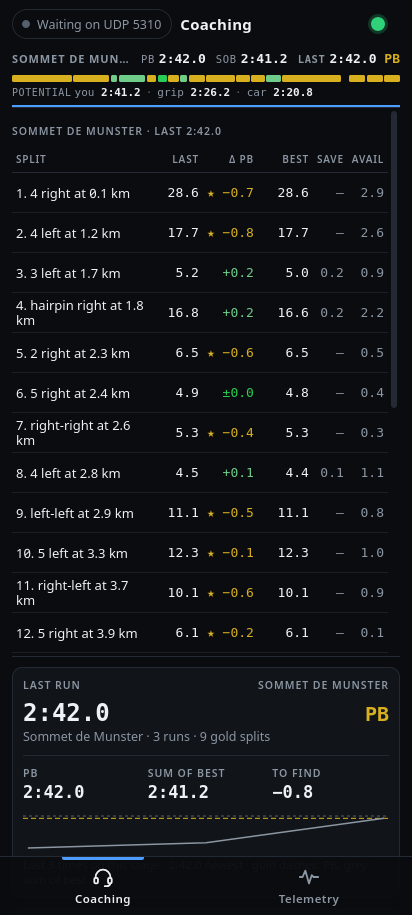
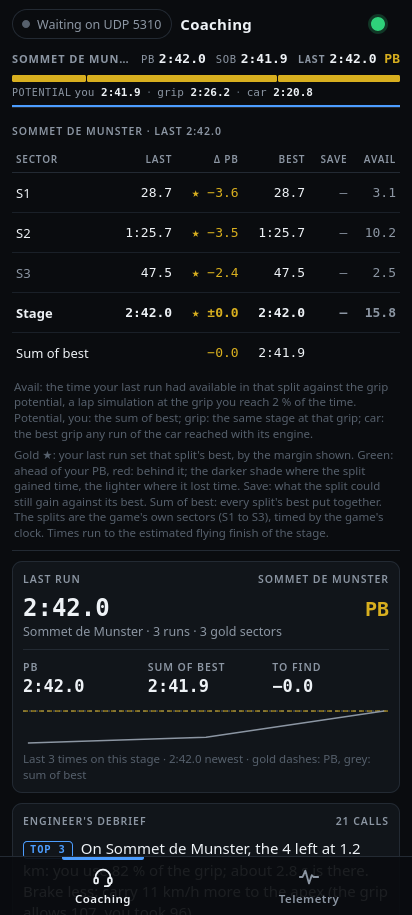
README images recaptured from this code (sectors, next-best and PB labels, m:ss.s times); live ribbon colours S1; splits legend wraps

diff --git a/data/telemetry/web/index.html b/data/telemetry/web/index.html
@@ -1249,7 +1249,8 @@ function liveRibbon(b) {
   let cur = null;
   sp.splits.forEach((r, j) => { if (!fin && d != null && r.d0 != null && r.d1 != null && d >= r.d0 && d < r.d1) cur = j; });
   sp.splits.forEach((r, j) => {
-    const g = ref && r.d0 != null ? rs.findIndex((x) => Math.abs(x.d0 - r.d0) < 2) : -1;
+    let g = -1, gap = 15;                     // the reference's split whose start is within 15 m (S1's line is a couple of m on)
+    if (ref && r.d0 != null) rs.forEach((x, k) => { const e = Math.abs(x.d0 - r.d0); if (e < gap) { gap = e; g = k; } });
     cells[j].className = j === cur ? "cur" : lr.tones[g] ? "ls-" + lr.tones[g] : "";
   });
   return cur == null ? -1 : cur;

diff --git a/oversteer/telemetry_view.py b/oversteer/telemetry_view.py
@@ -642,6 +642,10 @@ def live_cursor(body, bounds):
     return found
 
 
+SPLIT_MATCH = 15.0               # m: a row's split is the reference's whose start is this close (the sectors' lines
+                                 # are placed from where the reference began, a few metres from the row's 0)
+
+
 def live_ribbon(body, track, bounds):
     """(tones per cell, current cell) for the splits ribbon while a run is on, or None: completed splits in the tone
     they were completed in, the rest unlit."""
@@ -652,10 +656,9 @@ def live_ribbon(body, track, bounds):
     for b in bounds:
         g = -1
         if ref and b and b[0] is not None:
-            for i, s in enumerate(ref['splits']):
-                if abs(s['d0'] - b[0]) < 2.0:
-                    g = i
-                    break
+            near = min(range(len(ref['splits'])), key=lambda i: abs(ref['splits'][i]['d0'] - b[0]), default=None)
+            if near is not None and abs(ref['splits'][near]['d0'] - b[0]) < SPLIT_MATCH:     # S1 starts a couple of m on
+                g = near
         tones.append(track.tones.get(g, 'none'))
     return tones, live_cursor(body, bounds)
 

diff --git a/tests/test_live_view.py b/tests/test_live_view.py
@@ -166,3 +166,13 @@ def test_the_live_reference_is_named_by_what_it_is():
     assert view.ref_name({'pb': False, 'n': 4}) == 'Run 4' and view.ref_name({'pb': False, 'n': None}) == 'best run'
     buffer, end = buffer_with_run(until=750.0)
     assert view.live_delta_view(buffer.read(0, now=end), [(0.0, 500.0), (500.0, 2000.0)])['ref_name'] == 'PB'
+
+
+def test_the_ribbons_first_sector_matches_the_reference_whose_line_is_a_few_metres_on():
+    """The sectors' lines are placed from where the reference began: S1 starts 2 m on in the reference, at 0 in the row."""
+    import types
+    track = types.SimpleNamespace(tones={0: 'behind-lose', 1: 'ahead-gain'})
+    body = {'state': 'live', 'distance': 1500.0,
+            'ref': {'splits': [{'name': 'S1', 'd0': 2.06, 'd1': 1022.7}, {'name': 'S2', 'd0': 1022.7, 'd1': 3642.9}]}}
+    tones, current = view.live_ribbon(body, track, [(0.0, 1020.0), (1020.0, 3640.0), (3640.0, 5330.0)])
+    assert tones == ['behind-lose', 'ahead-gain', 'none'] and current == 1

diff --git a/oversteer/gtk_ui.py b/oversteer/gtk_ui.py
@@ -1688,6 +1688,7 @@ class GtkUi:
             text += ' ' + _("The finish split includes the slow-down to the stop.")
         note = Gtk.Label(label=text, xalign=0)
         note.set_line_wrap(True)
+        note.set_max_width_chars(100)               # wraps in a window as wide as the page instead of running off its edge
         note.get_style_context().add_class('dim-label')
         self.splits_body.pack_start(note, False, False, 0)
         self.splits_body.show_all()

diff --git a/README.md b/README.md
@@ -50,23 +50,23 @@ What you get, all from the game's telemetry (no overlay, nothing injected into t
   it can be limited to this computer.
 
 <p align="center">
-  <img src="docs/images/splits-mobile.png" width="300" alt="The web page on a phone with the splits table open (real output)">
+  <img src="docs/images/splits-mobile.png" width="300" alt="The web page on a phone with the sector table open: S1, S2, S3 against the PB, the sum of best and the potential lap (real output)">
   &nbsp;&nbsp;
   <img src="docs/images/telemetry-web.png" width="560" alt="The web page on a laptop: the splits ribbon with the potential lap, the last run, the splits and the coaching (real output)">
 </p>
-<p align="center"><sub>The phone/laptop page on the author's own runs: the splits sheet and the coaching.</sub></p>
+<p align="center"><sub>The phone/laptop page on the author's own runs: the game's three sectors (S1 to S3) with the potential lap, and the coaching.</sub></p>
 
 The Telemetry > Run view lines the run up against your best: speed, pedals, steering, gear and
 revs as strips over the stage, a stage map drawn from the game's positions, and where the time went
 with the coach's advice for each split. The Live view shows the delta to your best as you drive.
 
 <p align="center">
-  <img src="docs/images/telemetry-run.png" width="640" alt="Telemetry, Run view: strips against the personal best, the stage map coloured by time per split and where the time went, with the advice for one split (real output)">
+  <img src="docs/images/telemetry-run.png" width="640" alt="Telemetry, Run view of the PB compared with the next best run: strips, the stage map coloured by time per split and where the time went, with the advice for one split (real output)">
   &nbsp;
-  <img src="docs/images/telemetry-live.png" width="640" alt="Telemetry, Live view in the middle of a run: gear, speed, delta to the best, pedals, steering, G-G and the stage position (a capture replayed through the live path)">
+  <img src="docs/images/telemetry-live.png" width="640" alt="Telemetry, Live view in the middle of a run: gear, speed, delta to the PB, the sector ribbon (S1 done, S2 under way), pedals, steering, G-G and the stage position (a capture replayed through the live path)">
 </p>
-<p align="center"><sub>Run view (left) and Live view (right), both from the author's own captures; the live image is a capture
-replayed through the live path.</sub></p>
+<p align="center"><sub>Run view (left, the PB against the next best run) and Live view (right, a slower run against the PB), both from the
+author's own captures; the live image is a capture replayed through the live path.</sub></p>
 
 ### Quick setup
 
